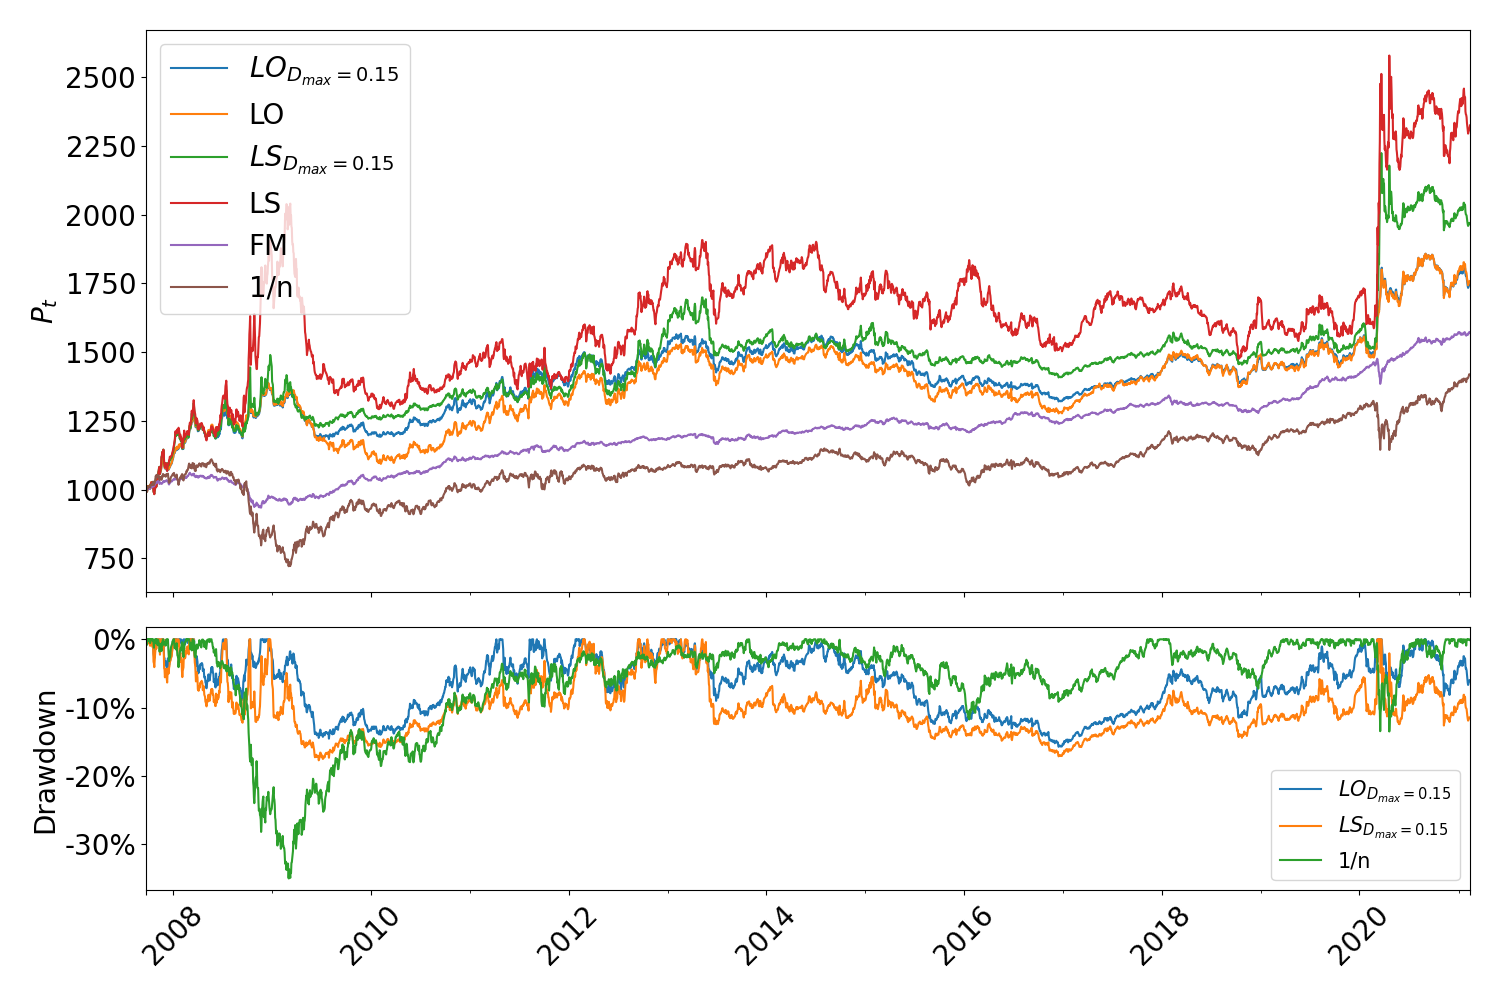
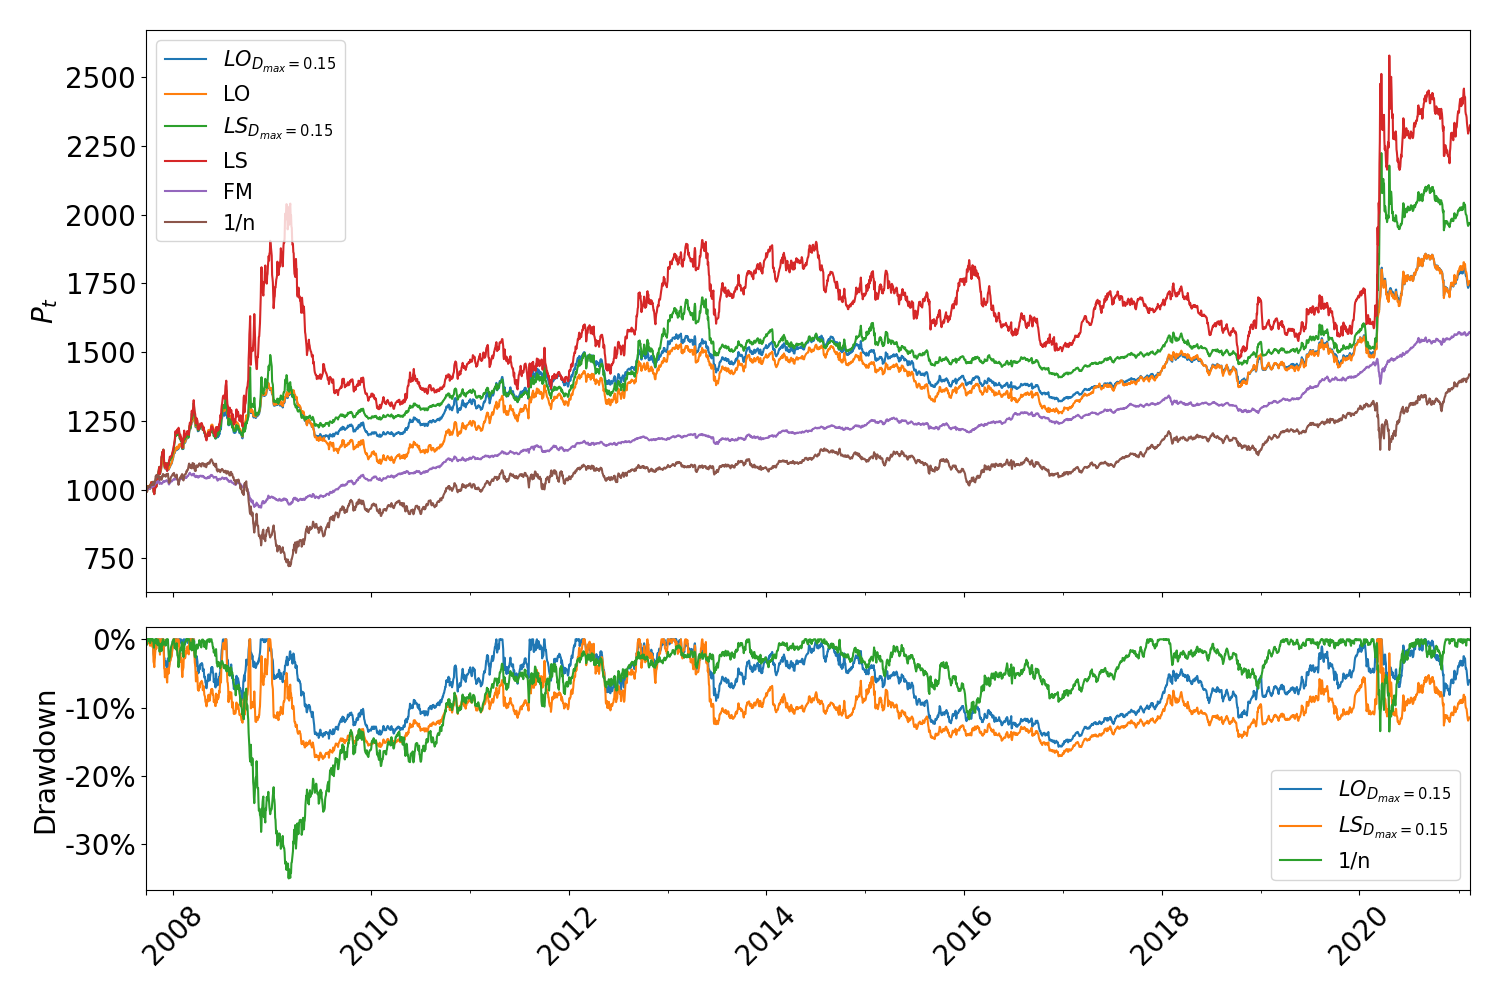
Updated graphs

Changed region(s): [[0.092, 0.031, 0.276, 0.31]]

diff --git a/analysis/portfolio_exercise/comparison.py b/analysis/portfolio_exercise/comparison.py
@@ -62,14 +62,11 @@ def plot_port_val(df, savefig=None):
     ax1 = plt.subplot2grid((3, 1), (0, 0), rowspan=2, colspan=1)
     ax2 = plt.subplot2grid((3, 1), (2, 0), rowspan=1, colspan=1, sharex=ax1)
 
-    #for col in df_frontiers.groupby(['short_cons', 'D_max']):
-    #    label = f'${type[0]}_{{D_{{max}}={type[1]}}}$' if type[1] < 1. else f'${type[0]}$'
-    #    ax.plot(data['timestamp'], data['gamma_5'], label=label)
-
     df.plot(ax=ax1)
     drawdown.iloc[:, [0,2,5]].plot(ax=ax2)
 
     ax1.set_ylabel('$P_t$')
+    ax1.legend(fontsize=15, loc='upper left')
 
     ax2.set_ylabel('Drawdown')
     ax2.set_yticklabels(['{:,.0%}'.format(x) for x in ax2.get_yticks()])
@@ -84,6 +81,34 @@ def plot_port_val(df, savefig=None):
         plt.savefig('./images/' + savefig)
     plt.show()
 
+def plot_rolling_sharpe(df, savefig=None):
+    df_ret = df.pct_change().dropna()
+    excess_ret = df_ret.subtract(df_ret['T-bills rf'], axis=0).drop('T-bills rf', axis=1)
+    excess_std = excess_ret.std(axis=0, ddof=1)
+
+    window_len = 252*5
+    rolling_cagr = (1+excess_ret).rolling(window=window_len).apply(np.prod, raw=True)**(1/5) - 1
+    rolling_std = excess_ret.rolling(window=window_len).std(ddof=1) * np.sqrt(252)
+    rolling_sharpe = rolling_cagr/rolling_std
+    rolling_sharpe.dropna(inplace=True)
+
+    # Plotting
+    plt.rcParams.update({'font.size': 20})
+    fig, ax = plt.subplots(nrows=1, ncols=1, sharex=True, figsize=(15, 10))
+
+    rolling_sharpe.iloc[:, [0,1,5]].plot(ax=ax)
+
+    ax.set_ylabel('Sharpe')
+    ax.legend(fontsize=15, loc='upper left')
+
+    ax.tick_params('x', labelrotation=45)
+    ax.set_xlabel('')
+
+    plt.tight_layout()
+
+    if not savefig == None:
+        plt.savefig('./images/' + savefig)
+    plt.show()
 
 if __name__ == '__main__':
     data = DataPrep(out_of_sample=True)
@@ -92,7 +117,11 @@ if __name__ == '__main__':
     #df = merge_data()
     #df.to_csv('./output_data/comparison.csv')
 
-    metrics = compute_asset_metrics(df)
-    metrics.to_latex('./output_data/port_performance.tex')
+    metrics = compute_asset_metrics(df).round(4)
+    metrics.to_latex('./output_data/port_performance.tex', escape=False)
 
     plot_port_val(df, savefig='comparison_perf.png')
+
+    plot_rolling_sharpe(df, savefig='rolling_sharpe.png')
+
+

diff --git a/analysis/portfolio_exercise/output_data/port_performance.tex b/analysis/portfolio_exercise/output_data/port_performance.tex
@@ -1,12 +1,12 @@
 \begin{tabular}{lrrrrr}
 \toprule
-{} &  Excess Return &  Excess Std &    Sharpe &  Max drawdown &  Calmar ratio \\
+{} &  Excess Return &  Excess Std &  Sharpe &  Max drawdown &  Calmar ratio \\
 \midrule
-\$LO\_\{D\_\{max\}=0.15\}\$ &       0.033400 &    0.071954 &  0.464191 &      0.157512 &      0.212049 \\
-LO                  &       0.033910 &    0.080413 &  0.421703 &      0.212418 &      0.159640 \\
-\$LS\_\{D\_\{max\}=0.15\}\$ &       0.042353 &    0.103096 &  0.410808 &      0.177290 &      0.238889 \\
-LS                  &       0.054931 &    0.144995 &  0.378849 &      0.366552 &      0.149859 \\
-FM                  &       0.025461 &    0.032719 &  0.778164 &      0.119720 &      0.212668 \\
-1/n                 &       0.017934 &    0.087748 &  0.204385 &      0.350445 &      0.051176 \\
+$LO_{D_{max}=0.15}$ &         0.0334 &      0.0720 &  0.4642 &        0.1575 &        0.2120 \\
+LO                  &         0.0339 &      0.0804 &  0.4217 &        0.2124 &        0.1596 \\
+$LS_{D_{max}=0.15}$ &         0.0424 &      0.1031 &  0.4108 &        0.1773 &        0.2389 \\
+LS                  &         0.0549 &      0.1450 &  0.3788 &        0.3666 &        0.1499 \\
+FM                  &         0.0255 &      0.0327 &  0.7782 &        0.1197 &        0.2127 \\
+1/n                 &         0.0179 &      0.0877 &  0.2044 &        0.3504 &        0.0512 \\
 \bottomrule
 \end{tabular}
